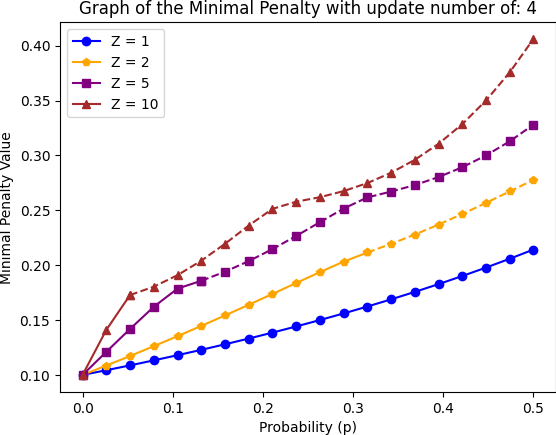
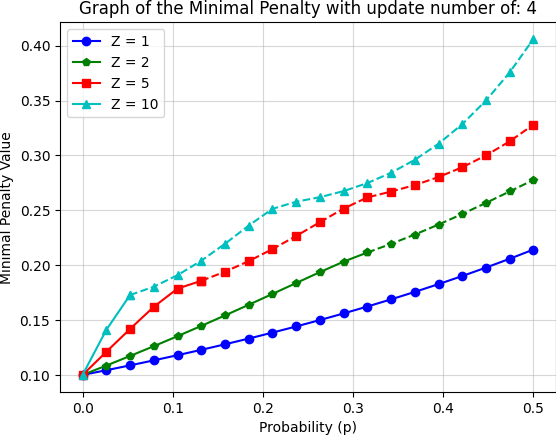
new graphs

diff --git a/problem3.py b/problem3.py
@@ -77,7 +77,7 @@ fig2, ax2 = plt.subplots()
 x_values = np.linspace(0.0, 0.5, len(p_list))
 
 #line_styles = ['-', '--', '-.', ':']
-line_colors = ['blue','orange','purple','brown']
+line_colors = ['b','g','r','c']
 marker_styles = ['o', 'p', 's', '^'] 
 
 #x_values = np.arange(len(p_list)) bunu kullanma equally spaced sebep oluyor
@@ -117,11 +117,11 @@ for i, z in enumerate(Z_list):
     if my_bool:
         ax1.plot(x_values[:cutting_idx+1], result_values[:cutting_idx+1], label="Z = " + str(z), color=line_colors[i % len(line_colors)], marker=marker_styles[i % len(marker_styles)], markevery=1)
         ax1.plot(x_values[cutting_idx:], result_values[cutting_idx:], linestyle='--', color=line_colors[i % len(line_colors)], marker=marker_styles[i % len(marker_styles)], markevery=1)
-        ax2.plot(x_values[:cutting_idx+1], avg_aoi_values[:cutting_idx+1], label="Z = " + str(z), color=line_colors[i % len(line_colors)], marker=marker_styles[i % len(marker_styles)], markevery=1)
+        ax2.plot(x_values[:cutting_idx+1], avg_aoi_values[:cutting_idx+1], label="Z = " + str(z), color=line_colors[i % len(line_colors)], marker=marker_styles[i % len(marker_styles)], markevery=1, markersize=24/(i+1))
         ax2.plot(x_values[cutting_idx:], avg_aoi_values[cutting_idx:], linestyle='--', color=line_colors[i % len(line_colors)], marker=marker_styles[i % len(marker_styles)], markevery=1, markersize=24/(i+1))
     else:
         ax1.plot(x_values, result_values, label="Z = " + str(z), color=line_colors[i % len(line_colors)], marker=marker_styles[i % len(marker_styles)], markevery=1)
-        ax2.plot(x_values, avg_aoi_values, label="Z = " + str(z), color=line_colors[i % len(line_colors)], marker=marker_styles[i % len(marker_styles)], markevery=1)
+        ax2.plot(x_values, avg_aoi_values, label="Z = " + str(z), color=line_colors[i % len(line_colors)], marker=marker_styles[i % len(marker_styles)], markevery=1, markersize=24/(i+2))
     #ax3.plot(x_values, interval_values, label="Z = " + str(z), color=line_colors[i % len(line_colors)])
     # if we want to plot whole graphs just comment the last part from print and use last 3 line
 
@@ -136,6 +136,8 @@ ax1.set_xticks(x_ticks)
 ax1.set_xticklabels(x_tick_labels)
 ax2.set_xticks(x_ticks)
 ax2.set_xticklabels(x_tick_labels)
+ax1.grid(True, alpha=0.5)
+ax2.grid(True, alpha=0.5)
 """ ax3.set_xticks(x_ticks)
 ax3.set_xticklabels(x_tick_labels) """
 

diff --git a/ml_to_graph.py b/ml_to_graph.py
@@ -56,11 +56,11 @@ with open("accuracy.pkl", "rb") as file:
 M_values = [1,2,3,4,5,6,7,8,9,10,11,12] # Number of updates
 N = 1  # Time interval
 p = 1-accuracy
-print(p)
 Z_list = [1,2,5,10]
 AoIs = {}
 fig1, ax1 = plt.subplots()
-line_colors = ['blue','orange','purple','brown']
+line_colors = ['b','g','r','c']
+widths = [10,5,4,3]
 
 for i, z in enumerate(Z_list):
     result_values = []  
@@ -95,7 +95,7 @@ for i, z in enumerate(Z_list):
                 cutting_idx = j
                 break """
            
-    ax1.plot(M_values, result_values, label="Z = " + str(z), color=line_colors[i % len(line_colors)])
+    ax1.plot(M_values, result_values, label="Z = " + str(z), color=line_colors[i % len(line_colors)], linewidth=widths[i % len(widths)])
     # if we want to plot whole graphs just comment the last part from print and use last 3 line
 
 x_tick_labels = [str(M) for M in M_values]
@@ -103,6 +103,7 @@ x_tick_labels = [str(M) for M in M_values]
 # Customize the tick labels on the x-axis
 ax1.set_xticks(M_values)
 ax1.set_xticklabels(x_tick_labels)
+ax1.grid(True, alpha=0.5)
 
 ax1.set_xlabel("M values")
 ax1.set_ylabel("Minimal Penalty Value")

diff --git a/diff_p.py b/diff_p.py
@@ -88,7 +88,7 @@ for p1 in p1_list:
     x_values = np.linspace(p1, 0.5, len(main_p))
 
     #line_styles = ['-', '--', '-.', ':']
-    line_colors = ['blue','orange','purple','brown']
+    line_colors = ['b','g','r','c']
     marker_styles = ['o', 'p', 's', '^'] 
 
     for i, z in enumerate(Z_list):
@@ -186,6 +186,8 @@ for p1 in p1_list:
     ax2.set_xticklabels(x_tick_labels)
     ax1.set_xlim(0, 0.5)
     ax2.set_xlim(0, 0.5)
+    ax1.grid(True, alpha=0.5)
+    ax2.grid(True, alpha=0.5)
     
     # fix the legend of ax1 with the markers
     """ handles, labels = ax1.get_legend_handles_labels()
